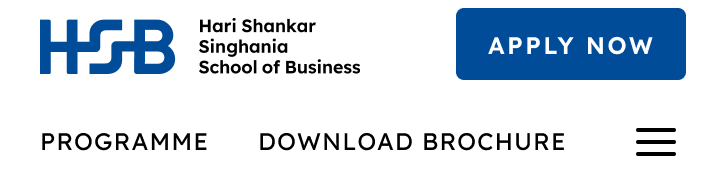
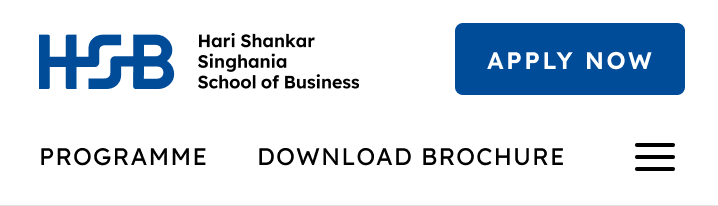
protoype

diff --git a/index2.html b/index2.html
@@ -19,108 +19,107 @@
     <main class="main-site" id="fullpage">
         <section class="home-page   fp-auto-height section" >
             <div class="section-1 image-wrapper d-none-lg">
-                <img class="d-none d-md-block" src="./assets/images/B1/Home A_1.webp" alt="section-1" srcset="">
-                <!-- <img class="d-none d-lg-block" src="./assets/images/Home B1.webp" alt="section-1" srcset=""> -->
+                <img class="d-none d-md-block" src="./assets/images/B1/Home B_1.webp" alt="section-1" srcset="">
+                <img class="d-none d-lg-block" src="./assets/images/Home B1.webp" alt="section-1" srcset="">
             </div>
         </section>
         <section class="home-page   fp-auto-height section" >
             <div class="section-2 image-wrapper d-none-lg">
-                  <img class="d-none d-md-block" src="./assets/images/B1/Home A_2.webp" alt="section-1" srcset="">
-                <!-- <img class="d-none d-lg-block" src="./assets/images/Home B2.webp" alt="" srcset=""> -->
+                  <img class="d-none d-md-block" src="./assets/images/B1/Home B_2.webp" alt="section-1" srcset="">
+                <img class="d-none d-lg-block" src="./assets/images/Home B2.webp" alt="" srcset="">
             </div>
         </section>
         <section class="home-page  fp-auto-height   section" >
             <div class="section-3 image-wrapper d-none-lg">
-                <img class="d-none d-md-block" src="./assets/images/B1/Home A_3.webp" alt="" srcset="">
-                <!-- <img class="d-none d-lg-block" src="./assets/images/Home B3.webp" alt="" srcset=""> -->
+                <img class="d-none d-md-block" src="./assets/images/B1/Home B_3.webp" alt="" srcset="">
+                <img class="d-none d-lg-block" src="./assets/images/Home B3.webp" alt="" srcset="">
             </div> 
         </section>
         <section class="home-page  fp-auto-height   section" >
             <div class="section-4 image-wrapper d-none-lg">
-                <img class="d-none d-md-block" src="./assets/images/B1/Home A_4.webp" alt="" srcset="">
-                <!-- <img class="d-none d-lg-block" src="./assets/images/Home B4.webp" alt="" srcset=""> -->
+                <img class="d-none d-md-block" src="./assets/images/B1/Home B_4.webp" alt="" srcset="">
+                <img class="d-none d-lg-block" src="./assets/images/Home B4.webp" alt="" srcset="">
             </div> 
         </section>
         <section class="home-page  fp-auto-height section" >
             <div class="section-5 image-wrapper d-none-lg">
-                <img class="d-none d-md-block" src="./assets/images/B1/Home A_5.webp" alt="" srcset="">
-                <!-- <img class="d-none d-lg-block" src="./assets/images/Home B4.webp" alt="" srcset=""> -->
+                <img class="d-none d-md-block" src="./assets/images/B1/Home B_5.webp" alt="" srcset="">
+                <img class="d-none d-lg-block" src="./assets/images/Home B4.webp" alt="" srcset="">
             </div> 
         </section>
         <section class="home-page  fp-auto-height section" >
             <div class="section-6 image-wrapper d-none-lg">
-                <img class="d-none d-md-block" src="./assets/images/B1/Home A_6.webp" alt="" srcset="">
-                <!-- <img class="d-none d-lg-block" src="./assets/images/Home B4.webp" alt="" srcset=""> -->
+                <img class="d-none d-md-block" src="./assets/images/B1/Home B_6.webp" alt="" srcset="">
+                <img class="d-none d-lg-block" src="./assets/images/Home B4.webp" alt="" srcset="">
             </div> 
         </section>
         <section class="home-page  fp-auto-height section" >
             <div class="section-7 image-wrapper d-none-lg">
-                <img class="d-none d-md-block" src="./assets/images/B1/Home A_7.webp" alt="" srcset="">
-                <!-- <img class="d-none d-lg-block" src="./assets/images/Home B4.webp" alt="" srcset=""> -->
+                <img class="d-none d-md-block" src="./assets/images/B1/Home B_7.webp" alt="" srcset="">
+                <img class="d-none d-lg-block" src="./assets/images/Home B4.webp" alt="" srcset="">
             </div> 
         </section>
         <section class="home-page  fp-auto-height section" >
             <div class="section-8 image-wrapper d-none-lg">
-                <img class="d-none d-md-block" src="./assets/images/B1/Home A_8.webp" alt="" srcset="">
-                <!-- <img class="d-none d-lg-block" src="./assets/images/Home B4.webp" alt="" srcset=""> -->
+                <img class="d-none d-md-block" src="./assets/images/B1/Home B_8.webp" alt="" srcset="">
+                <img class="d-none d-lg-block" src="./assets/images/Home B4.webp" alt="" srcset="">
             </div> 
         </section>
         <section class="home-page  fp-auto-height section" >
             <div class="section-9 image-wrapper d-none-lg">
-                <img class="d-none d-md-block" src="./assets/images/B1/Home A_9.webp" alt="" srcset="">
+                <img class="d-none d-md-block" src="./assets/images/B1/Home B_9.webp" alt="" srcset="">
                 <!-- <img class="d-none d-lg-block" src="./assets/images/Home B4.webp" alt="" srcset=""> -->
             </div> 
         </section>
         <section class="home-page  fp-auto-height section" >
             <div class="section-10 image-wrapper d-none-lg">
-                <img class="d-none d-md-block" src="./assets/images/B1/Home A_10.webp" alt="" srcset="">
+                <img class="d-none d-md-block" src="./assets/images/B1/Home B_10.webp" alt="" srcset="">
                 <!-- <img class="d-none d-lg-block" src="./assets/images/Home B4.webp" alt="" srcset=""> -->
             </div> 
         </section>
         <section class="home-page  fp-auto-height section" >
             <div class="section-11 image-wrapper d-none-lg">
-                <img class="d-none d-md-block" src="./assets/images/B1/Home A_11.webp" alt="" srcset="">
+                <img class="d-none d-md-block" src="./assets/images/B1/Home B_11.webp" alt="" srcset="">
                 <!-- <img class="d-none d-lg-block" src="./assets/images/Home B4.webp" alt="" srcset=""> -->
             </div> 
         </section>
         <section class="home-page  fp-auto-height section" >
             <div class="section-12 image-wrapper d-none-lg">
-                <img class="d-none d-md-block" src="./assets/images/B1/Home A_12.webp" alt="" srcset="">
+                <img class="d-none d-md-block" src="./assets/images/B1/Home B_12.webp" alt="" srcset="">
                 <!-- <img class="d-none d-lg-block" src="./assets/images/Home B4.webp" alt="" srcset=""> -->
             </div> 
         </section>
         <section class="home-page  fp-auto-height section" >
             <div class="section-13 image-wrapper d-none-lg">
-                <img class="d-none d-md-block" src="./assets/images/B1/Home A_13.webp" alt="" srcset="">
+                <img class="d-none d-md-block" src="./assets/images/B1/Home B_13.webp" alt="" srcset="">
                 <!-- <img class="d-none d-lg-block" src="./assets/images/Home B4.webp" alt="" srcset=""> -->
             </div> 
         </section>
         <section class="home-page  fp-auto-height section" >
             <div class="section-14 image-wrapper d-none-lg">
-                <img class="d-none d-md-block" src="./assets/images/B1/Home A_14.webp" alt="" srcset="">
+                <img class="d-none d-md-block" src="./assets/images/B1/Home B_14.webp" alt="" srcset="">
                 <!-- <img class="d-none d-lg-block" src="./assets/images/Home B4.webp" alt="" srcset=""> -->
             </div> 
         </section>
         <section class="home-page  fp-auto-height section" >
             <div class="section-15 image-wrapper d-none-lg">
-                <img class="d-none d-md-block" src="./assets/images/B1/Home A_15.webp" alt="" srcset="">
+                <img class="d-none d-md-block" src="./assets/images/B1/Home B_15.webp" alt="" srcset="">
                 <!-- <img class="d-none d-lg-block" src="./assets/images/Home B4.webp" alt="" srcset=""> -->
             </div> 
         </section>
         <section class="home-page  fp-auto-height section" >
             <div class="section-16 image-wrapper d-none-lg">
-                <img class="d-none d-md-block" src="./assets/images/B1/Home A_16.webp" alt="" srcset="">
+                <img class="d-none d-md-block" src="./assets/images/B1/Home B_16.webp" alt="" srcset="">
                 <!-- <img class="d-none d-lg-block" src="./assets/images/Home B4.webp" alt="" srcset=""> -->
             </div> 
         </section>
         <section class="home-page  fp-auto-height section" >
             <div class="section-17 image-wrapper d-none-lg">
-                <img class="d-none d-md-block" src="./assets/images/B1/Home A_17.webp" alt="" srcset="">
+                <img class="d-none d-md-block" src="./assets/images/B1/Home B_17.webp" alt="" srcset="">
                 <!-- <img class="d-none d-lg-block" src="./assets/images/Home B4.webp" alt="" srcset=""> -->
             </div> 
         </section>
     </main>
-
     <footer>
         <script src="https://code.jquery.com/jquery-3.7.0.min.js" integrity="sha256-2Pmvv0kuTBOenSvLm6bvfBSSHrUJ+3A7x6P5Ebd07/g=" crossorigin="anonymous"></script>
         <script src="./assets/js/scrolloverflow.js"></script>

diff --git a/assets/css/style.css b/assets/css/style.css
@@ -27,9 +27,9 @@ section {
 }
 
 img {
-  max-width: 100%;
+  /* max-width: 100%;
   height: auto;
-  width: 100%;
+  width: 100%; */
 }
 
 .btn-image {
@@ -65,9 +65,9 @@ header img{
     top: 50%;
     left: 50%;
     transform: translate(-50%, -50%); */
-    width: 100%;
+    width: 395px;
     height: 100%;
-    object-fit: cover;
+    /* object-fit: cover; */
 }
 
 
@@ -84,12 +84,13 @@ header img{
     z-index: 1;
     position: relative;
     background: white;
-    padding-top:5.556vw;
+    padding-top: 5.556vw;
     height: 27.778vw;
   }
 
   header img{
       height: 100%;
+      width: 100vw;
       object-fit: cover;
   }
 
@@ -113,9 +114,9 @@ header img{
 }
 }
 
-.fp-table{
+/* .fp-table{
   justify-content: start;
-}
+} */
 
 .fp-tableCell , .fp-table{ 
   /* display: flex; */

diff --git a/assets/js/custom.js b/assets/js/custom.js
@@ -1,20 +1,11 @@
-// var btnToggle = document.getElementsByClassName("hamburger");
-// btnToggle[0].addEventListener("click", function () {
-// 	$(this).toggleClass('open');
-// 	$('.menu-header-container').toggleClass('d-sm-block');
-// 	//  $('.menu li:nth-child(1)').toggleClass('o-show');
-// });
-
 
 
 $('#fullpage').fullpage({
 	sectionSelector: '.section',
-	// scrollBar: true,
 	normalScrollElements: '.scrolldiv',
-	// scrollOverflow: true,
-	// offsetSections: true,
 	scrollingSpeed: 800,
 	easing: 'easeOut',
+	  licenseKey: 'S6K7J-034TK-Z98KK-J06DH-OOKRQ'
 }
 );
 
